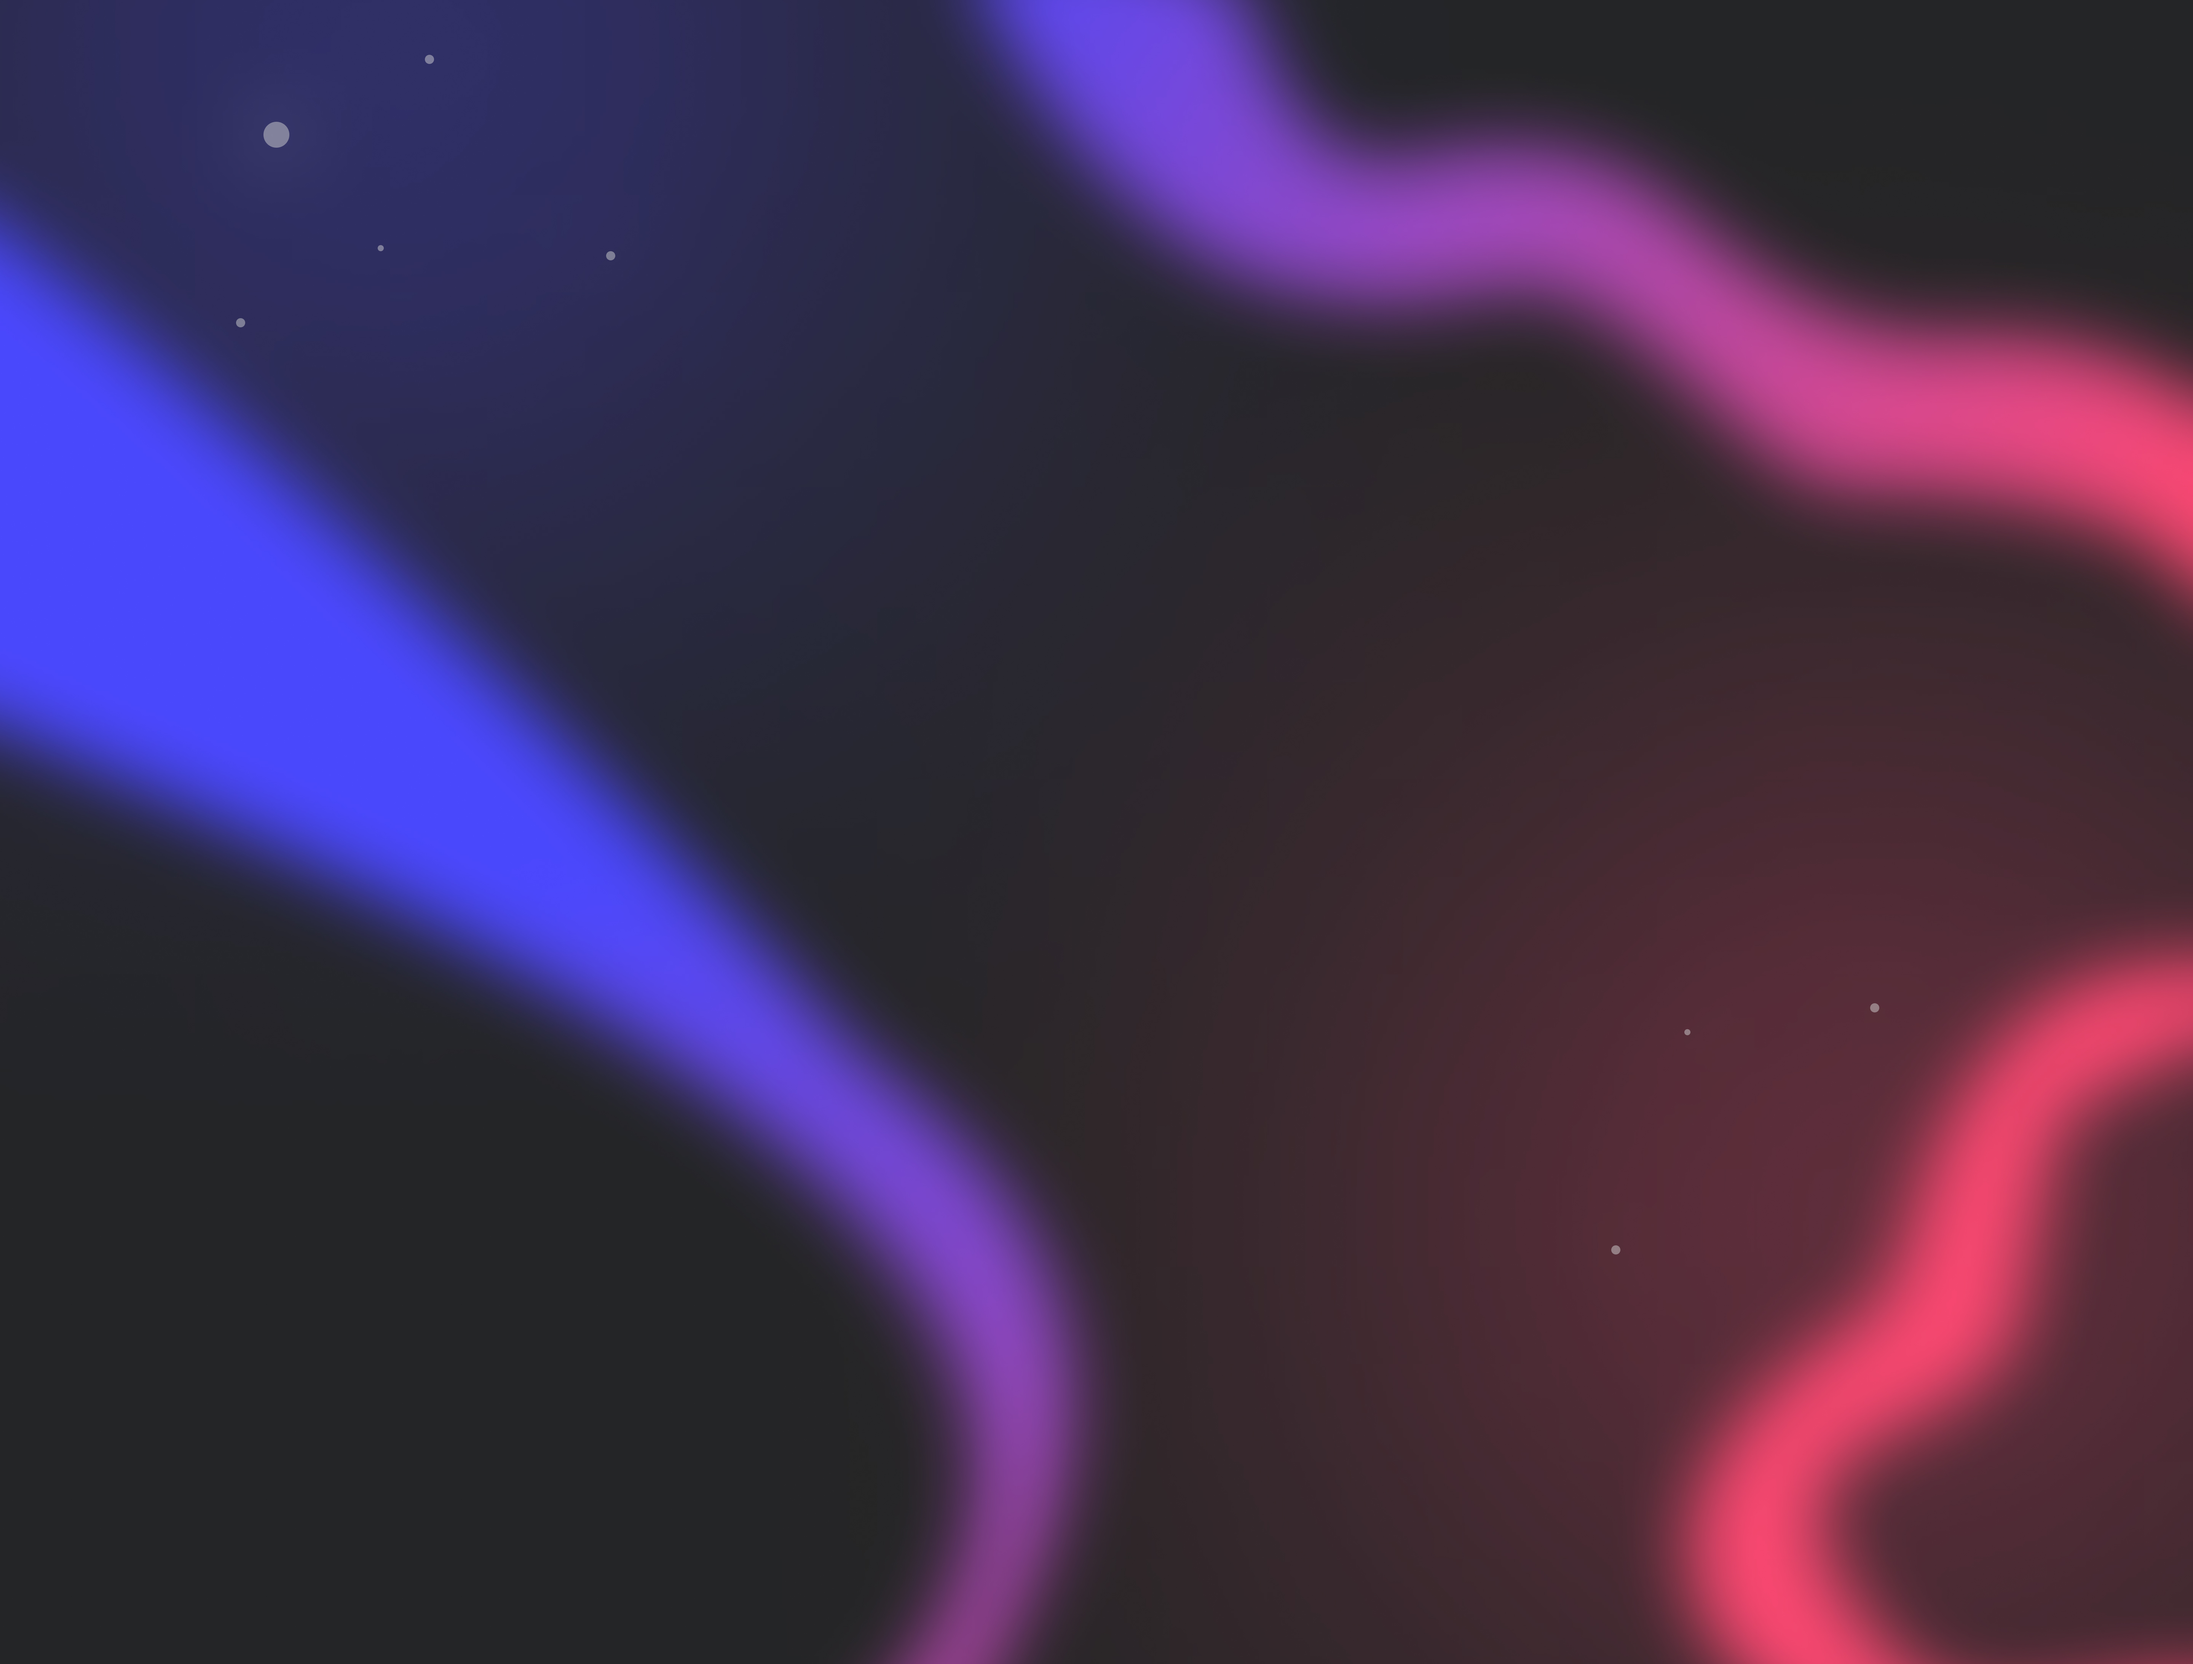
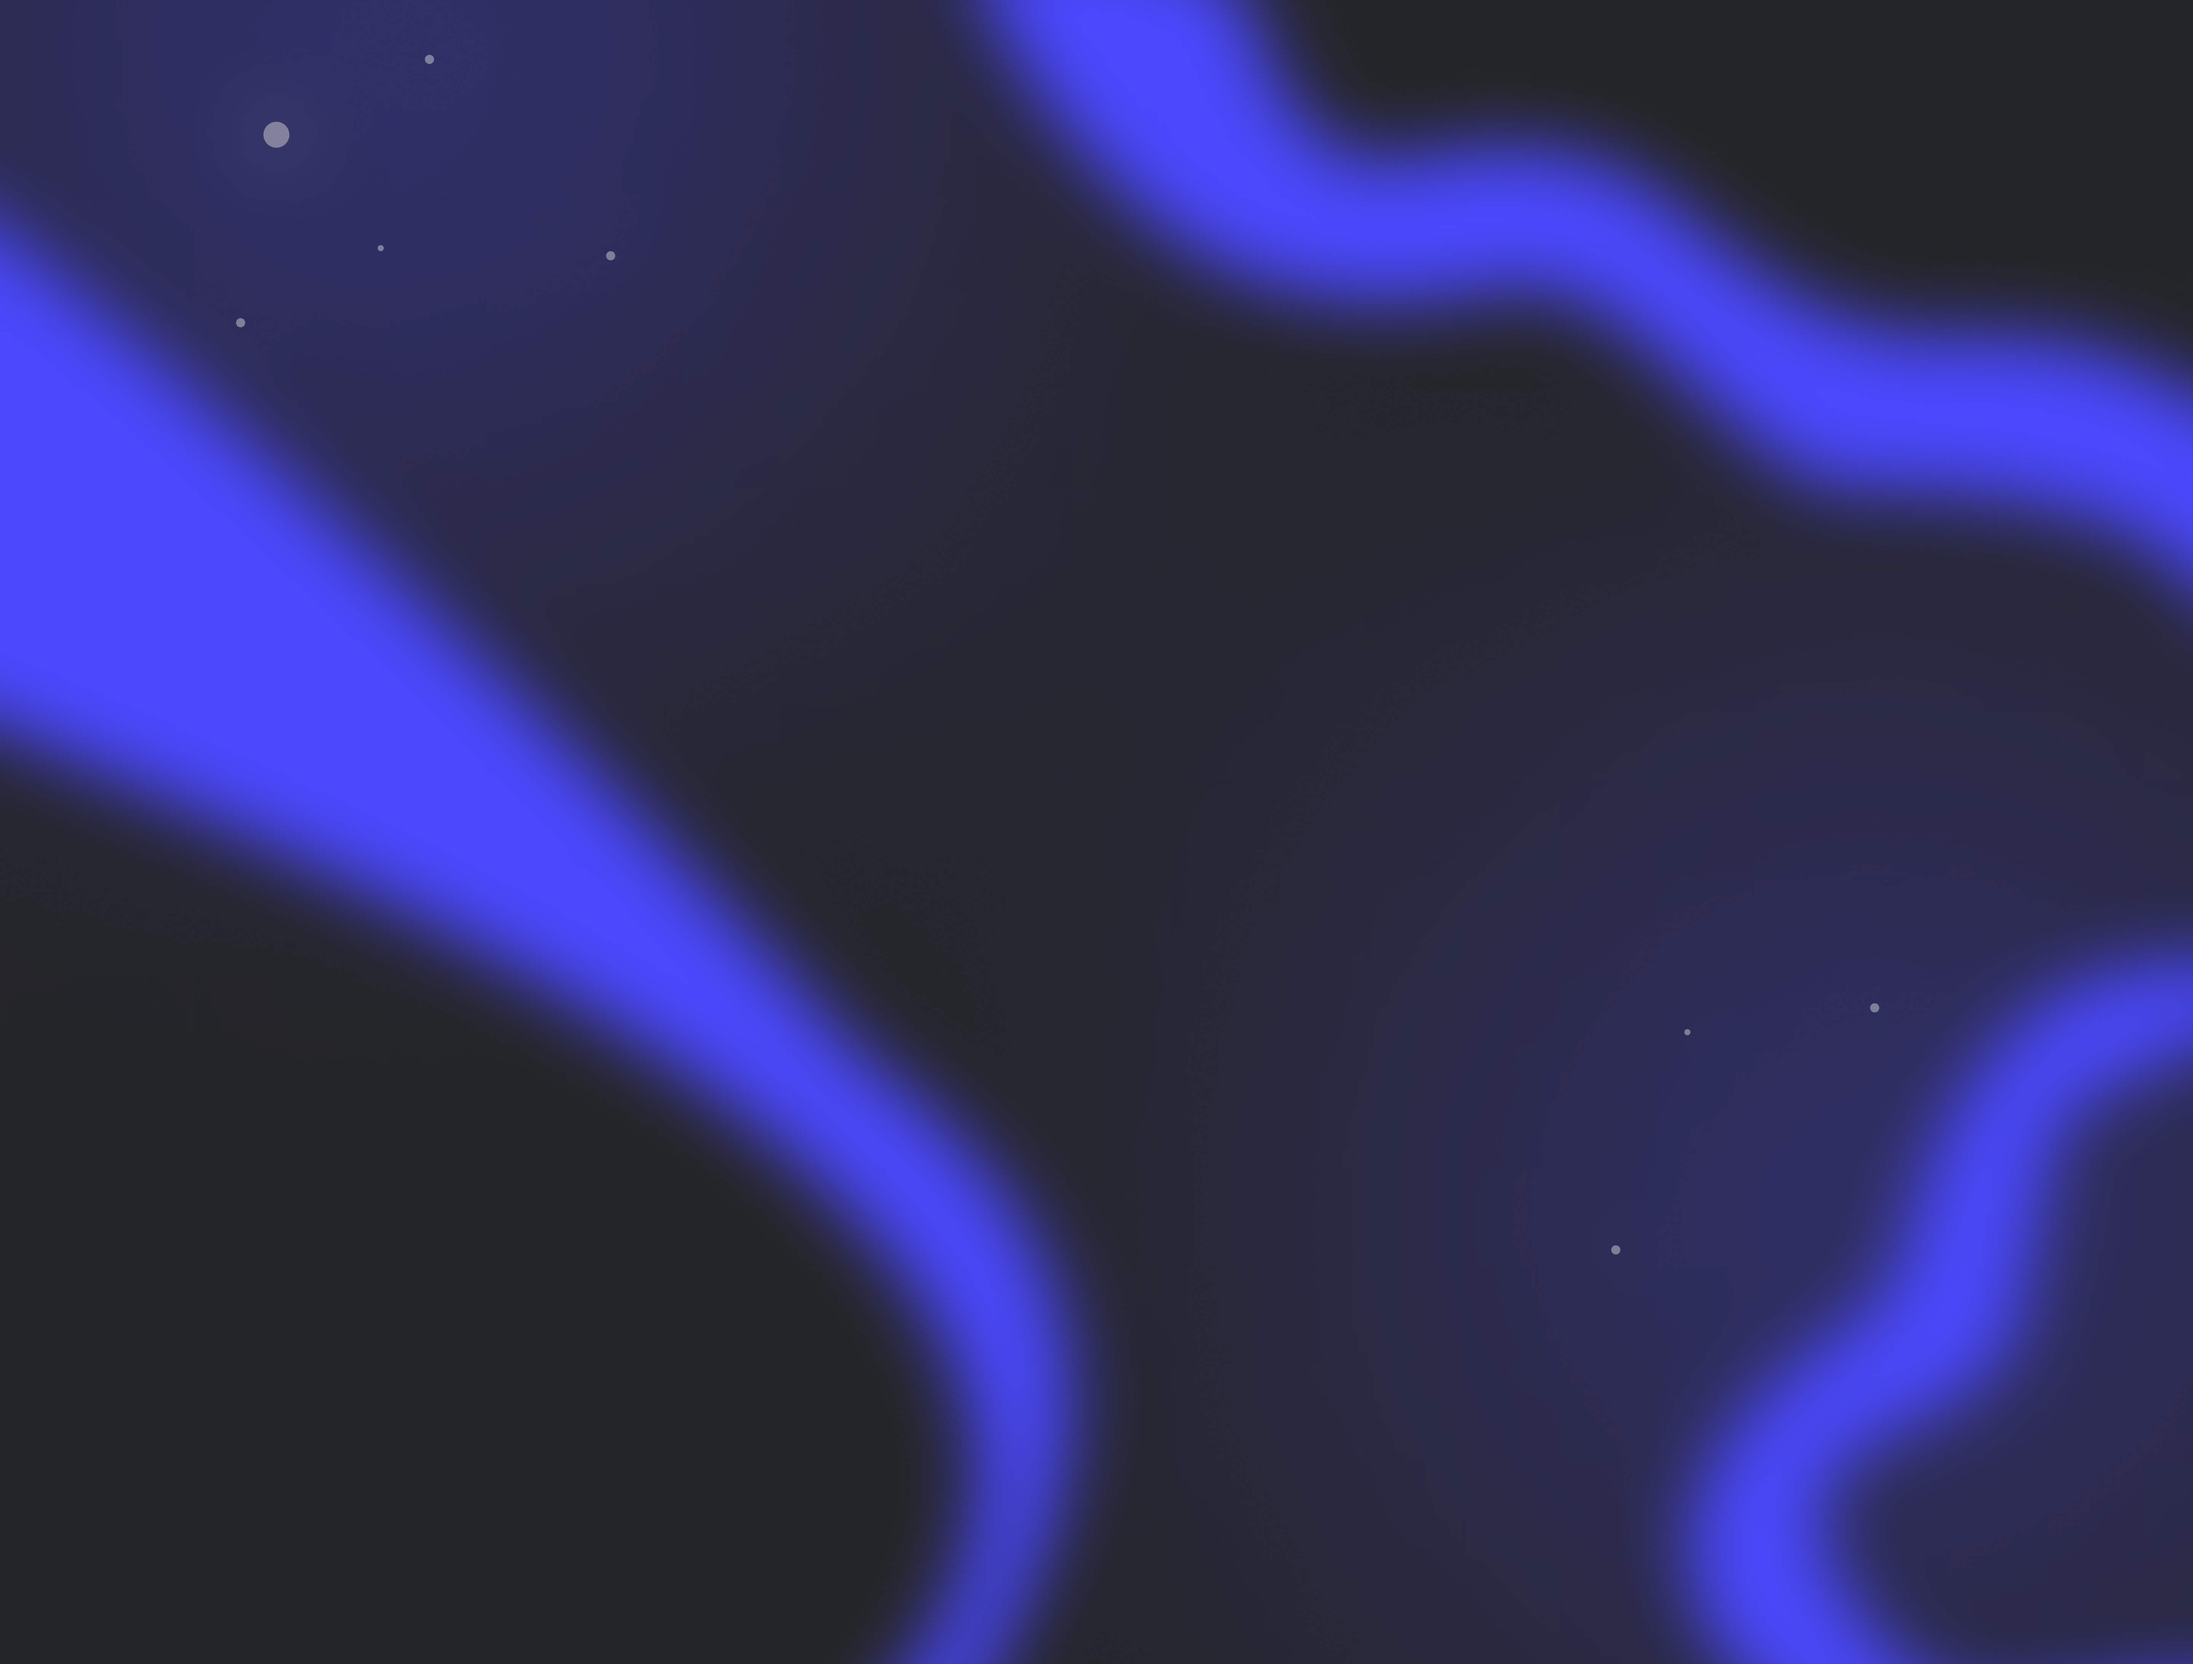
add none for loader and button

Changed region(s): [[0.625, 0.4044, 1.0, 1.0], [0.4688, 0.0, 1.0, 0.4044], [0.3438, 0.6221, 0.5, 1.0]]

diff --git a/js/main.js b/js/main.js
@@ -1,5 +1,6 @@
-const apiKey = "e3eead13-89e4-4093-ac45-66ec3298bdc1";
+// настройки
 
+const apiKey = "e3eead13-89e4-4093-ac45-66ec3298bdc1";
 const url = "https://kinopoiskapiunofficial.tech/api/v2.2/films/";
 const options = {
   method: "GET",
@@ -9,49 +10,50 @@ const options = {
   },
 };
 
+// DOM-элементы
 const filmsWrapper = document.querySelector(".films");
+const loader = document.querySelector(".loader-wrapper");
+const buttonLoadMore = document.querySelector(".show-more");
 
-// через промисы
-// fetch(`${url}top`, options)
-//   .then((res) => res.json())
-//   .then((json) => console.log(json))
-//   .catch((err) => console.log(err));
-
-// через async await
+// получение и вывод ТОП 250 фильмов
 async function fetchAndRenderFilms() {
-  const response = await fetch(`${url}top`, options);
-  const data = await response.json();
-  console.log(data);
-  console.log(data.films);
+  //показать прелоадер
+  loader.classList.remove("none");
 
-  for (film of data.films) {
-    console.log(film);
+  //получаем фильмы
+  const data = await fetchData(`${url}top`, options);
+
+  //проверка на доп страницы
+  if (data.pagesCount > 1) {
+    //отобразить кнопку
+    buttonLoadMore.classList.remove("none");
+  }
+
+  //скрываем прелоадер
+  loader.classList.add("none");
+
+  //рендерим фильмы на страницу
+  renderFilms(data.films);
+}
+
+async function fetchData(url, options) {
+  const response = await fetch(url, options);
+  const data = await response.json();
+  return data;
+}
+
+function renderFilms(films) {
+  for (film of films) {
     const html = `<div class="films">
-        <div class="card">
-          <img src=${film.posterUrlPreview} alt="Cover" class="card__img" />
-          <h3 class="card__title">${film.nameRu}</h3>
-          <p class="card__year">${film.year}</p>
-          <p class="card__rate">Рейтинг: ${film.rating}</p>
-        </div>`;
+            <div class="card">
+              <img src=${film.posterUrlPreview} alt="Cover" class="card__img" />
+              <h3 class="card__title">${film.nameRu}</h3>
+              <p class="card__year">${film.year}</p>
+              <p class="card__rate">Рейтинг: ${film.rating}</p>
+            </div>`;
 
     filmsWrapper.insertAdjacentHTML("beforeend", html);
   }
 }
 
 fetchAndRenderFilms().catch((err) => console.log(err));
-
-// способы вызвать catch
-//
-// fetchAndRenderFilms().catch((err) => console.log(err))
-//
-// или
-//
-// async function fetchAndRenderFilms() {
-//   try {
-//     const response = await fetch(`${url}top`, options);
-//     const data = await response.json();
-//     console.log(data);
-//   } catch (err) {
-//     console.log(err);
-//   }
-// }

diff --git a/index.html b/index.html
@@ -23,11 +23,11 @@
         </div> -->
       </div>
 
-      <div class="loader-wrapper">
+      <div class="loader-wrapper none">
         <div class="lds-dual-ring"></div>
       </div>
 
-      <button class="show-more">Следующие 20 фильмов</button>
+      <button class="show-more none">Следующие 20 фильмов</button>
     </div>
 
     <script src="/js/main.js"></script>

diff --git a/styles/styles.css b/styles/styles.css
@@ -80,7 +80,7 @@ body {
 .card:hover {
   transform: translateY(-10px);
   background-color: rgb(35, 35, 35);
-  box-shadow: 0px 10px 20px rgba(253, 69, 110, 0.6);
+  box-shadow: 0px 10px 20px #4845fe;
 }
 
 .card__img {
@@ -128,4 +128,8 @@ body {
 .loader-wrapper {
   text-align: center;
   padding-block: 100px;
+}
+
+.none {
+  display: none !important;
 }

diff --git a/styles/loader.css b/styles/loader.css
@@ -6,7 +6,7 @@
   display: inline-block;
   width: 80px;
   height: 80px;
-  color: rgb(249, 104, 135);
+  color: #4845fe;
 }
 .lds-dual-ring:after {
   content: " ";
